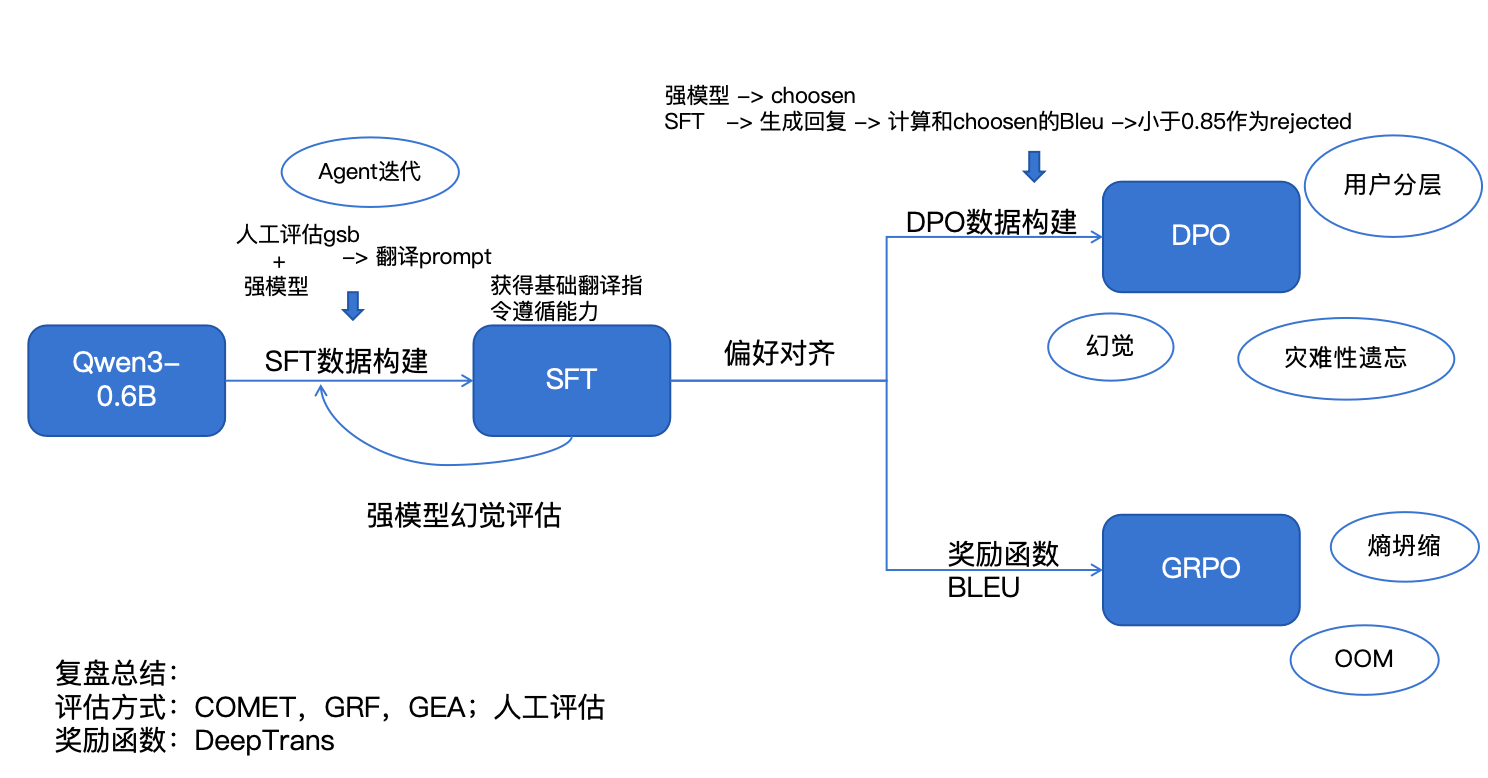
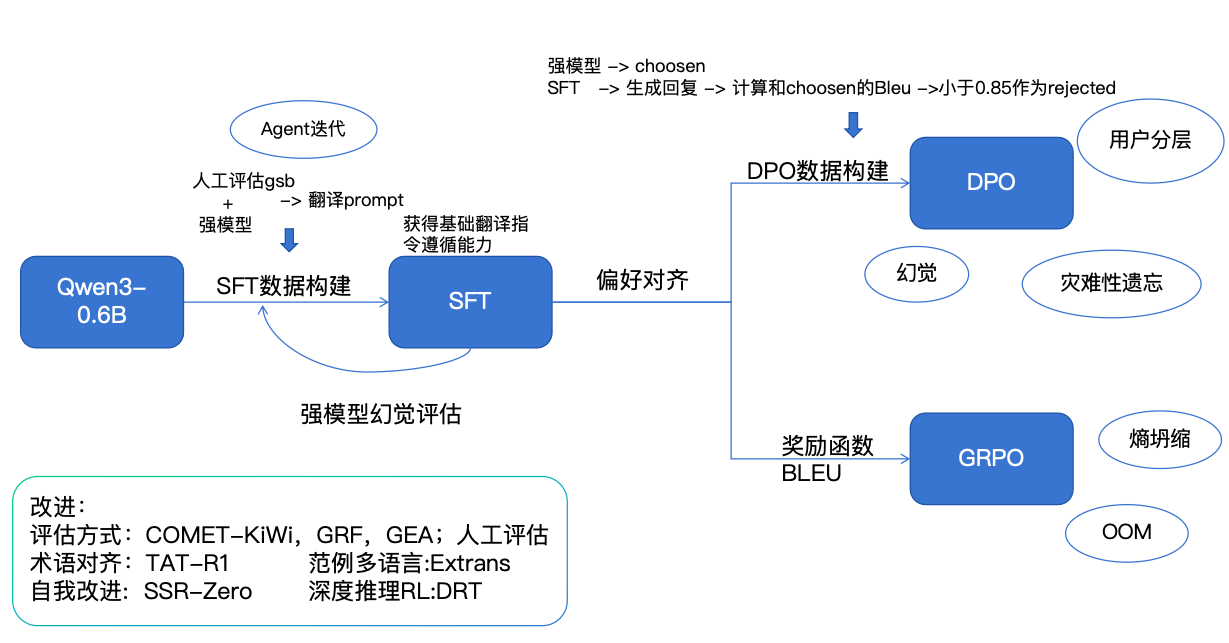
feat: 添加翻译领域前沿方法(DeepTrans, ExTrans, SSR, TAT-R1)及更新NLP_Bookmark

diff --git a/content/posts/Translate_Paper/index.md b/content/posts/Translate_Paper/index.md
@@ -36,6 +36,93 @@ katex: true
 
 **以下是一篇英文论文的一个片段，请帮我以该论文作者的语气用中文翻译该片段的内容，记住一定要保持英文表达的含义，但是表述的方式要符合中文的表达习惯，不用直接翻译英文的表达形式，记住一定以改论文作者的语气来表述。\n#任务要求\n1、重新表述****一定不要遗漏，一定不能遗漏**，否则会收到投诉。\n1、对于专有的缩写名词，请直接保留该缩写。\n2、对于该领域专有的一些名词，请在中文后面用括弧进行英文专有名词注释。\n3、一定要以该论文作者的语气进行表述。\n4、论文中如果有论文引用，一定要保留下来。\n5、**一定要用中文阅读习惯的表达方式来表述，不要直接翻译，很多英文直接翻译后，中文会非常的别扭，导致阅读体验差。但是一定要忠实原文**\n6、保留文本中的markdown格式，保持与英文的文本格式一致，特别是注重一级标题的保留，让阅读有层次感，但是一定不能擅自添加标题，一定要忠实原文，否则你会受到惩罚。\n7、文本中公式为latex格式，遇到公式如果公式有错误，请修正后输出，如果没有错误则原样输出即可，不需要任何翻译，输出要保证正确性，公式格式为latex。如果没有公式则不用输出任何公式。\n8、不要杜撰任何原文没有的内容，比如公示、没说完的话等，否则你会收到投诉！\n#输出要求\n请直接开始输出翻译后的内容。禁止在你的回答中包含任何额外的说明、前言或总结性文字（例如“这是翻译好的内容：”、“翻译如下：”等）。你的输出必须且只能是翻译后的正文。\n#英文论文如下
 
+### 翻译领域前沿方法
+
+<details>
+<summary><strong>📖 DeepTrans：基于深度推理的翻译强化学习</strong></summary>
+
+**方法概述**：DeepTrans 是一种基于深度推理的翻译强化学习训练框架。该方法利用 DeepTrans Model 生成翻译，并通过多维度 Reward Signals（格式奖励、思维奖励、翻译质量奖励）进行优化。
+
+**流程图**：
+
+![DeepTrans RL Training Overview](DRT.png)
+
+**Reward 函数**：
+
+$$
+r_{\text{all}} = \begin{cases} 0 & \text{if } r_{\text{format}} = 0 \\ r_{\text{trans}} + \alpha \times r_{\text{thought}} & \text{if } r_{\text{format}} \neq 0 \end{cases}
+$$
+
+其中 $r_{\text{format}}$ 为格式奖励，$r_{\text{trans}}$ 为翻译质量奖励，$r_{\text{thought}}$ 为思维推理奖励，$\alpha$ 为权衡系数。
+
+</details>
+
+<details>
+<summary><strong>📖 ExTrans：基于示例增强的翻译奖励方法</strong></summary>
+
+**方法概述**：ExTrans（Exemplar-enhanced Translation）利用强模型（如 DeepSeek-R1）作为示例模型生成高质量翻译，然后与策略模型的翻译进行对比，通过 DeepSeek-v3 判断优劣来生成奖励信号。
+
+**流程图**：
+
+![ExTrans Exemplar-enhanced Translation Reward](Extrans.png)
+
+**Reward 函数**：
+
+$$
+r_{\text{all}} = \begin{cases} 0 & \text{if } r_{\text{format}} = 0 \\ r_{\text{trans}} + \alpha \times r_{\text{thought}} + \beta \times r_{\text{comet}} & \text{if } r_{\text{format}} \neq 0 \end{cases}
+$$
+
+$$
+r_{\text{generalize}} = \begin{cases} 0 & \text{if } r_{\text{format}} = 0 \\ 0 & \text{elif } \text{Lang}(t_r) \neq \text{target language} \\ 1 & \text{else} \end{cases}
+$$
+
+其中 $\alpha$ 和 $\beta$ 为权衡系数，$\text{Lang}(\cdot)$ 表示语言检测函数。
+
+</details>
+
+<details>
+<summary><strong>📖 SSR：基于自评估的零样本强化学习翻译</strong></summary>
+
+**方法概述**：SSR（Self-evaluation based RL）是一种类 R1-Zero 的机器翻译强化学习训练方法。该方法使用同一个模型同时作为 Actor 和 Judge，不需要外部奖励模型或人工标注的参考数据，通过 GRPO 进行迭代训练优化。
+
+**流程图**：
+
+![SSR Framework Overview](SSR_zero.png)
+
+**Reward 函数**：
+
+$$
+r_{\text{all}} = \begin{cases} 1 + r_{\text{self}}, & \text{if } r_{\text{format}} \neq 0 \\ 0, & \text{if } r_{\text{format}} = 0 \end{cases}
+$$
+
+其中 $r_{\text{self}}$ 为模型自评估奖励，$r_{\text{format}}$ 为格式正确性奖励。
+
+</details>
+
+<details>
+<summary><strong>📖 TAT-R1：基于词对齐的翻译强化学习</strong></summary>
+
+**方法概述**：TAT-R1 是一种结合 RL 和词对齐（Word Alignment）的翻译训练方法。该方法从源文本和参考翻译中提取关键词对齐信息，并设计多维度奖励函数（Answer-align-word reward、Answer-align-order reward、Think-align-word reward、Format reward、COMET reward）进行 GRPO 训练。
+
+**流程图**：
+
+![TAT-R1 Training with RL and Word Alignment](TRT.png)
+
+**Reward 函数**：
+
+$$
+R_{\text{all}} = \begin{cases} 0, & \text{if } R_{\text{format}} = 0 \\ R_{\text{comet}} + \alpha * R_{\text{aaw}} + \beta * R_{\text{aao}} + \gamma * R_{\text{taw}}, & \text{if } R_{\text{format}} = 1 \end{cases}
+$$
+
+其中：
+- $R_{\text{comet}}$：COMET 评估奖励
+- $R_{\text{aaw}}$：Answer-align-word 奖励（答案-词对齐）
+- $R_{\text{aao}}$：Answer-align-order 奖励（答案-顺序对齐）
+- $R_{\text{taw}}$：Think-align-word 奖励（思维-词对齐）
+- $\alpha, \beta, \gamma$：权衡系数
+
+</details>
+
 ### 数据工程
 
 #### 数据集构建策略
